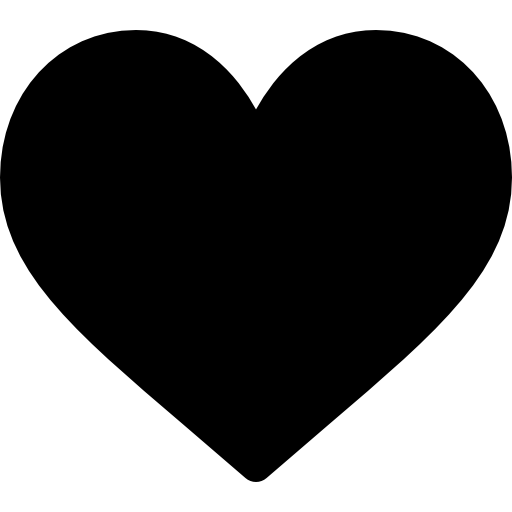
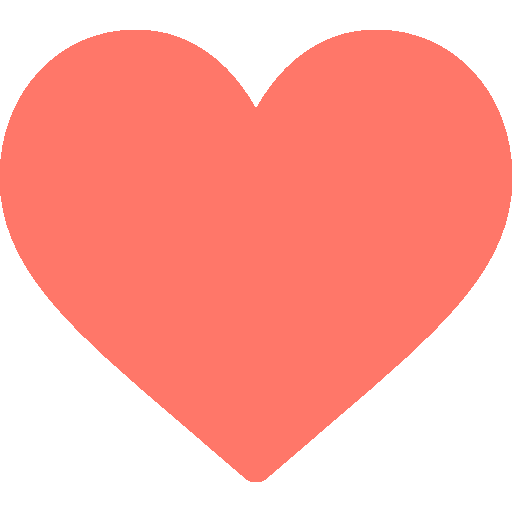
Modificações no sql e melhorias no coração

diff --git a/assets/css/produtos-categoria.min.css b/assets/css/produtos-categoria.min.css
@@ -111,6 +111,33 @@ hr.card-produto-dinamico-linha{
     font-weight: bold;
 }
 
+.fav__heart__icon{
+    width: 40%;
+}
+
+.fav__heart__icon:hover{
+    transform: scale(1.15);
+    transition-duration: 0.7s;
+}
+
+.svg-icon{
+    border: 1px solid black;
+    border-radius: 50%;
+    margin-left: 10px;
+    width: 37px;
+    height: 37px;
+}
+
+/*Hover botao carrinho*/   
+.svg-icon:hover{
+    border: 1px solid #FF7769;
+    background-color: #FF7769;
+    fill: white;
+    box-shadow: 0 1px 3px rgba(0,0,0,0.12), 0 1px 2px rgba(0,0,0,0.24);
+    transform: scale(1.1);
+    transition-duration: 0.7s;
+}
+
 @media (max-width:1199px) {
     .legal {
         margin-bottom: 50px

diff --git a/pags/produtos-categoria.php b/pags/produtos-categoria.php
@@ -160,7 +160,7 @@ $TodosProdutos = array_chunk($TodosidsProdutos, ceil(count($TodosidsProdutos) / 
     <link rel="stylesheet" type="text/css" href="../assets/css/produtos-categoria.min.css">
 
     <link rel="stylesheet" type="text/css" href="../assets/css/carrinho.min.css">
-
+    
  
 
     <link rel="stylesheet" href="https://fonts.googleapis.com/css2?family=Material+Symbols+Outlined:opsz,wght,FILL,GRAD@20..48,100..700,0..1,-50..200" />
@@ -340,9 +340,31 @@ foreach ($chunksProdutos as $chunk) { ?>
                             <div class="card-produto-dinamico-preco-button-texto" >R$:<?php echo $precoProduto ?>,00</div>
                             <form action="../assets/scripts/cadastrarFavorito.php" method="POST">
                                 <input type="hidden" name="idProduto" id="idProduto" value="<?php echo $idsProdutos ; ?>">
-                                <button ><img width="40%"  src="../assets/img/heart.png" alt=""></button>
+                                <?php
+                                    $sqlFav = "SELECT * FROM `favoritos` WHERE `id_produto`='$idsProdutos'";
+                                    $stmt = $pdo->query($sqlFav);
+                                    $stmt->execute();
+                                    $favoritos = $stmt->fetchAll(PDO::FETCH_ASSOC);
+                                    $quantidadeTupla = $stmt->rowCount();
+
+                                    if($quantidadeTupla > 0){
+                                        echo '<button ><img class="fav__heart__icon" src="../assets/img/heart-filled.png" alt=""></button>';
+                                    }else{
+                                        echo '<button ><img class="fav__heart__icon" src="../assets/img/heart.png" alt=""></button>';
+                                    }
+                                    
+                                ?>
+                                
                             </form>
-                            <button > <a href="?adicriona=<?php echo $idsProdutos ?>"> <img width="80%"  src="../assets/img/iconeadd.png" alt=""> </a></button>
+                            <button> 
+                                <a href="?adicriona=<?php echo $idsProdutos ?>">
+                                    <svg class="svg-icon" viewBox="0 0 20 20">
+                                        <path d="M17.72,5.011H8.026c-0.271,0-0.49,0.219-0.49,0.489c0,0.271,0.219,0.489,0.49,0.489h8.962l-1.979,4.773H6.763L4.935,5.343C4.926,5.316,4.897,5.309,4.884,5.286c-0.011-0.024,0-0.051-0.017-0.074C4.833,5.166,4.025,4.081,2.33,3.908C2.068,3.883,1.822,4.075,1.795,4.344C1.767,4.612,1.962,4.853,2.231,4.88c1.143,0.118,1.703,0.738,1.808,0.866l1.91,5.661c0.066,0.199,0.252,0.333,0.463,0.333h8.924c0.116,0,0.22-0.053,0.308-0.128c0.027-0.023,0.042-0.048,0.063-0.076c0.026-0.034,0.063-0.058,0.08-0.099l2.384-5.75c0.062-0.151,0.046-0.323-0.045-0.458C18.036,5.092,17.883,5.011,17.72,5.011z"></path>
+                                        <path d="M8.251,12.386c-1.023,0-1.856,0.834-1.856,1.856s0.833,1.853,1.856,1.853c1.021,0,1.853-0.83,1.853-1.853S9.273,12.386,8.251,12.386z M8.251,15.116c-0.484,0-0.877-0.393-0.877-0.874c0-0.484,0.394-0.878,0.877-0.878c0.482,0,0.875,0.394,0.875,0.878C9.126,14.724,8.733,15.116,8.251,15.116z"></path>
+                                        <path d="M13.972,12.386c-1.022,0-1.855,0.834-1.855,1.856s0.833,1.853,1.855,1.853s1.854-0.83,1.854-1.853S14.994,12.386,13.972,12.386z M13.972,15.116c-0.484,0-0.878-0.393-0.878-0.874c0-0.484,0.394-0.878,0.878-0.878c0.482,0,0.875,0.394,0.875,0.878C14.847,14.724,14.454,15.116,13.972,15.116z"></path>
+                                    </svg>
+                                </a>
+                            </button>
 
                         </div>
                     </div>

diff --git a/pags/som-multimidia-eletronicos.php b/pags/som-multimidia-eletronicos.php
@@ -32,7 +32,7 @@
         <div class="card-container">
             <?php
                 $categoria = 'som-multimidia-eletronicos';
-                @require_once('../assets/components/cards-produto.php');
+                require_once('../assets/components/cards-produto.php');
             ?>
         </div>
     </main>
